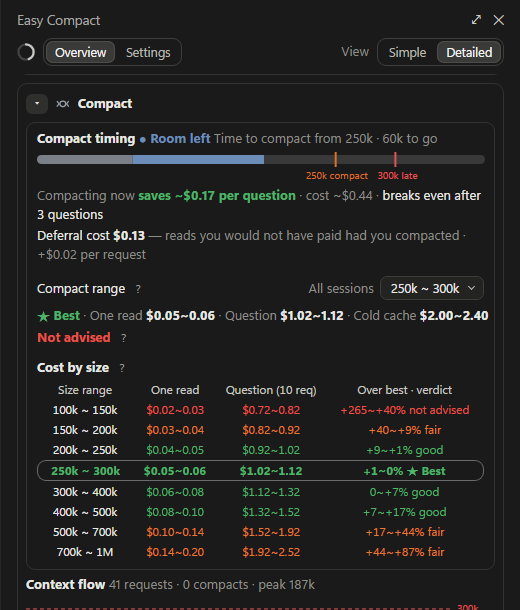
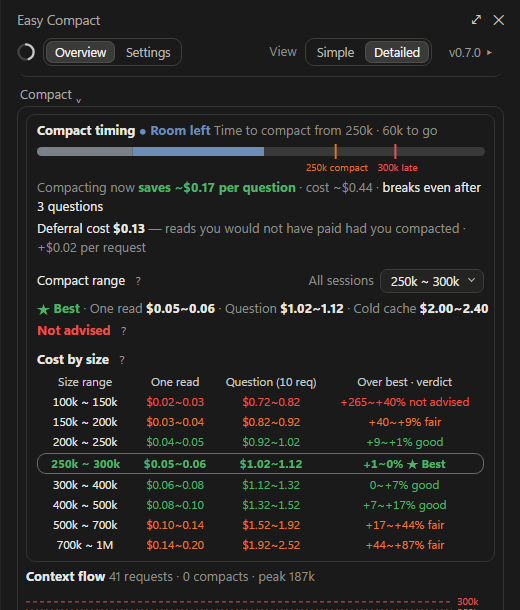
README: screenshots and demo video for the 0.7 screens (folding settings, version button, agent character)

Changed region(s): [[0.0308, 0.0623, 0.9846, 0.9656], [0.0308, 0.9656, 0.9231, 1.0]]

diff --git a/README.md b/README.md
@@ -193,7 +193,7 @@ Claude Code re-reads the whole context on every request — a session at 300k pa
 
 ## Demo · 60 s
 
-https://github.com/user-attachments/assets/f357e96b-41fe-496e-8a1c-4e3b05c8c397
+https://github.com/user-attachments/assets/14ada62f-b8b0-4362-a69f-7014d85a4fff
 
 ## Features
 
